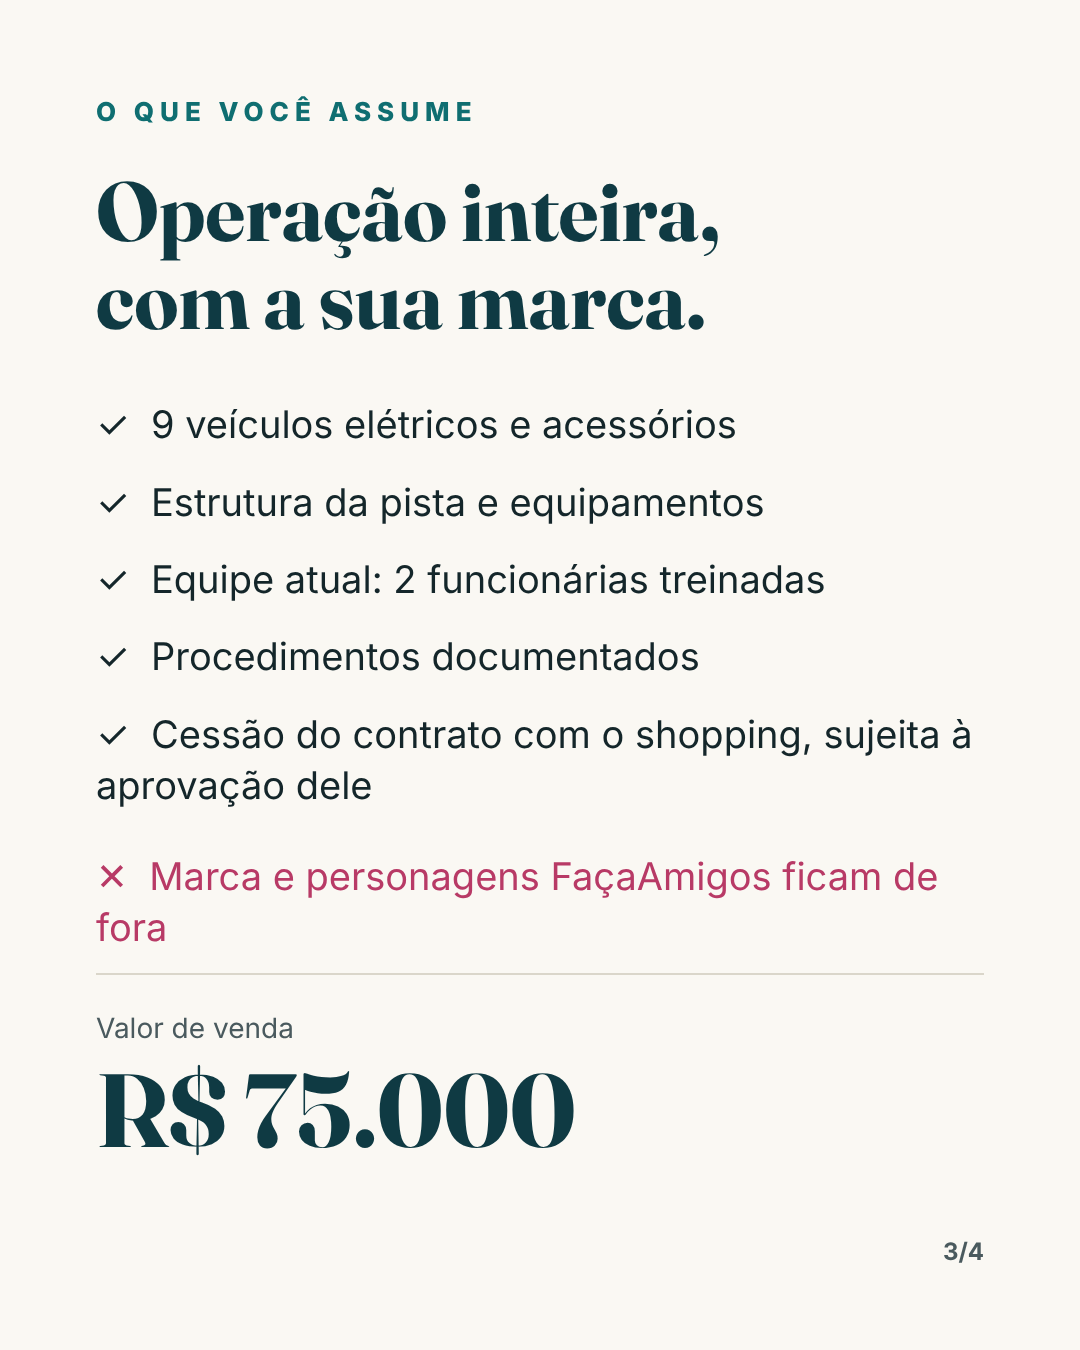
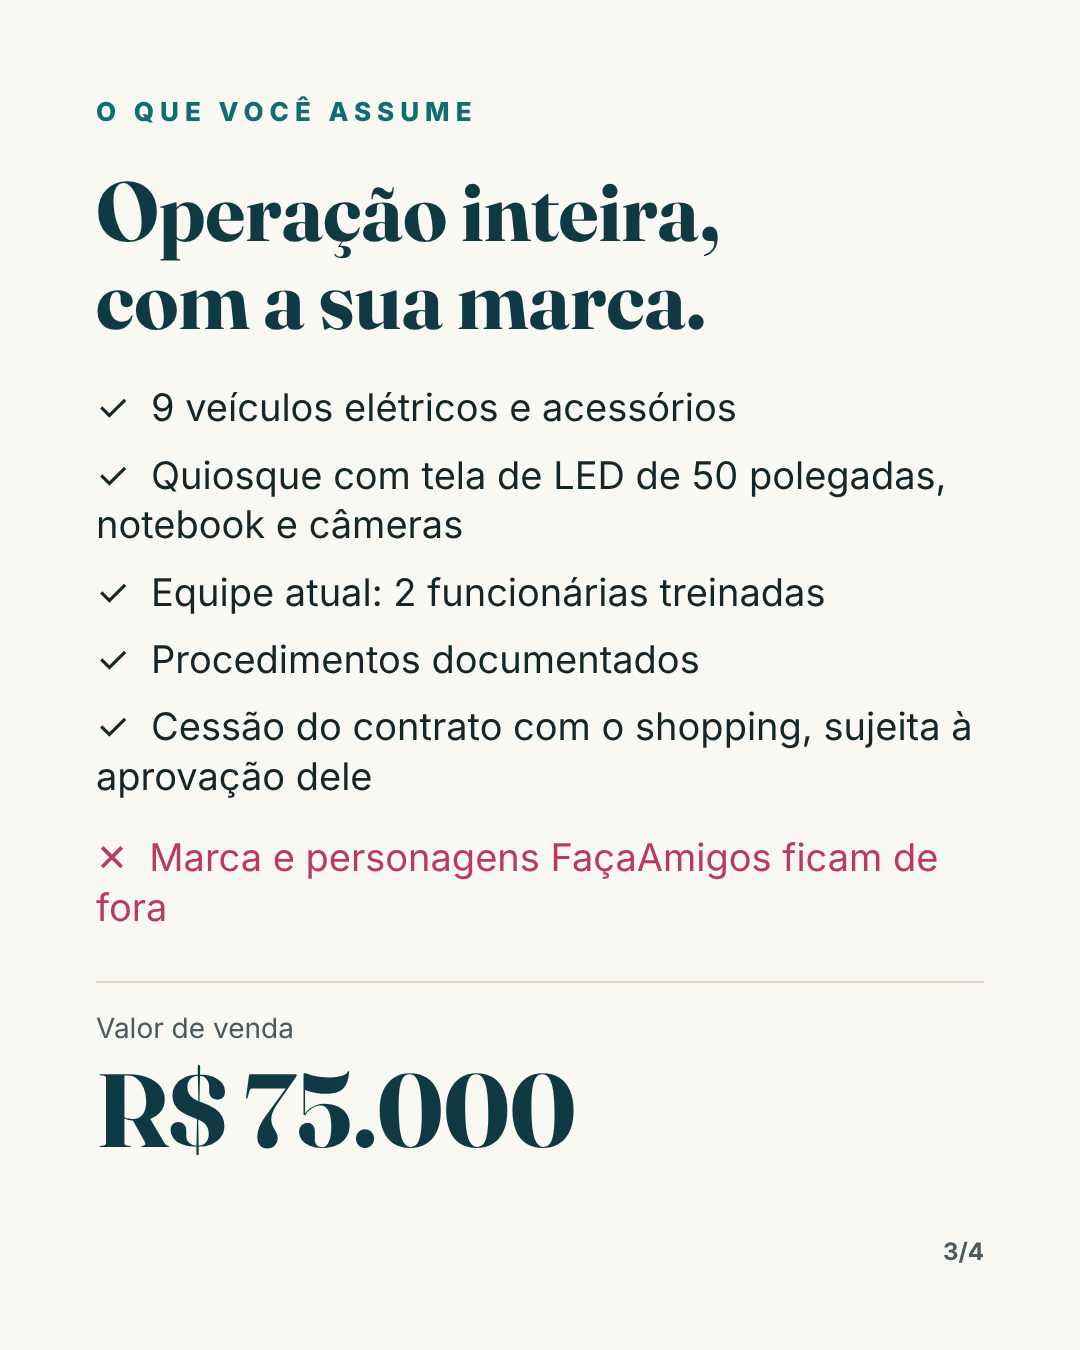
feat: lista de equipamentos do quiosque na página, no slide e na legenda
Claude-Session: https://claude.ai/code/session_017CkKxD3f3y8NacZGNLNyWv

diff --git a/instagram-posts/circuito-slides.html b/instagram-posts/circuito-slides.html
@@ -48,16 +48,16 @@ h1,h2,.big{font-family:Fraunces,Georgia,serif;font-weight:700;line-height:1.05}
 <div class="slide cream">
   <p class="kick">O que você assume</p>
   <h2 style="font-size:84px;margin-top:40px;color:#0F3A43">Operação inteira,<br>com a sua marca.</h2>
-  <div style="margin-top:56px;font-size:38px;line-height:1.35;display:grid;gap:26px">
+  <div style="margin-top:40px;font-size:38px;line-height:1.3;display:grid;gap:18px">
     <p>✓&nbsp; 9 veículos elétricos e acessórios</p>
-    <p>✓&nbsp; Estrutura da pista e equipamentos</p>
+    <p>✓&nbsp; Quiosque com tela de LED de 50 polegadas, notebook e câmeras</p>
     <p>✓&nbsp; Equipe atual: 2 funcionárias treinadas</p>
     <p>✓&nbsp; Procedimentos documentados</p>
     <p>✓&nbsp; Cessão do contrato com o shopping, sujeita à aprovação dele</p>
     <p style="color:#B83A66;margin-top:14px">✕&nbsp; Marca e personagens FaçaAmigos ficam de fora</p>
   </div>
-  <div class="sp"></div>
-  <div style="padding-bottom:80px;border-top:2px solid #DAD6CA;padding-top:36px"><span style="font-size:28px;color:#4A5A5E">Valor de venda</span><br><span style="font-family:Fraunces,serif;font-weight:700;font-size:104px;color:#0F3A43">R$ 75.000</span></div>
+  <div class="sp" style="min-height:24px"></div>
+  <div style="padding-bottom:80px;border-top:2px solid #DAD6CA;padding-top:28px"><span style="font-size:28px;color:#4A5A5E">Valor de venda</span><br><span style="font-family:Fraunces,serif;font-weight:700;font-size:104px;color:#0F3A43">R$ 75.000</span></div>
   <p class="pg">3/4</p>
 </div>
 

diff --git a/circuito/index.html b/circuito/index.html
@@ -113,7 +113,7 @@
         <h3>Incluído na venda</h3>
         <ul class="ticks">
           <li>9 veículos elétricos e acessórios: 4 pelúcias, moto, jipe, carro de bombeiros, SUV branco e esportivo amarelo</li>
-          <li>Estrutura da pista e equipamentos de apoio</li>
+          <li>Quiosque com marcenaria, tela de LED de 50 polegadas, impressora de cupom não fiscal, notebook Core i5, câmeras de monitoramento, carregador rápido e 10 baterias extras</li>
           <li>Cessão do contrato de locação com o shopping, sujeita à aprovação dele</li>
           <li>Procedimentos operacionais documentados</li>
           <li>Equipe atual: 2 funcionárias treinadas, em escala 12x36, com a transferência incluída</li>

diff --git a/circuito/dna-oferta-circuito.md b/circuito/dna-oferta-circuito.md
@@ -23,3 +23,5 @@ WhatsApp; fotos reais sem personagens, logo ou fachada do shopping; pixel Meta p
 Decisão: a seção "Montar do zero x assumir" foi retirada. Com 3 meses de uso, o custo de reposição não sustenta o preço e o comprador faria a conta contra a gente.
 
 Equipe: 2 funcionárias em escala 12x36, transferência incluída. Contato público: institutofacaamigos@gmail.com (sem telefone). Informações da operação só são enviadas depois do preenchimento do formulário.
+
+Equipamentos do quiosque (incluídos): marcenaria, tela de LED de 50 polegadas, impressora de cupom não fiscal, notebook Core i5, câmeras de monitoramento, carregador rápido e 10 baterias extras.

diff --git a/instagram-posts/legenda-circuito.md b/instagram-posts/legenda-circuito.md
@@ -10,7 +10,7 @@ Ele fica em um shopping na Av. Augusto Montenegro, em Belém, e já opera: R$ 14
 
 O que você assume:
 ✓ 9 veículos elétricos e acessórios
-✓ Estrutura da pista e equipamentos
+✓ Quiosque com marcenaria, tela de LED de 50 polegadas, impressora de cupom não fiscal, notebook Core i5, câmeras de monitoramento, carregador rápido e 10 baterias extras
 ✓ Equipe atual: 2 funcionárias treinadas
 ✓ Procedimentos documentados
 ✓ Cessão do contrato com o shopping, sujeita à aprovação dele
